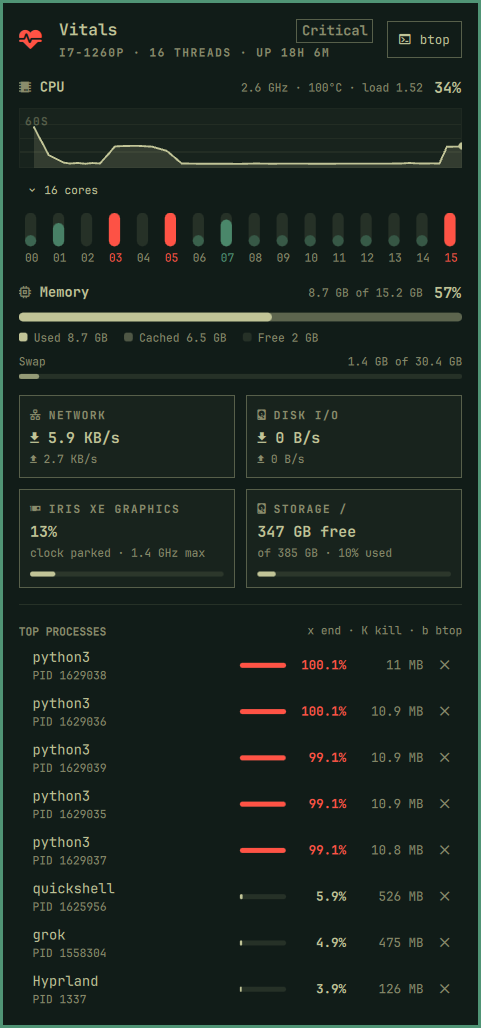
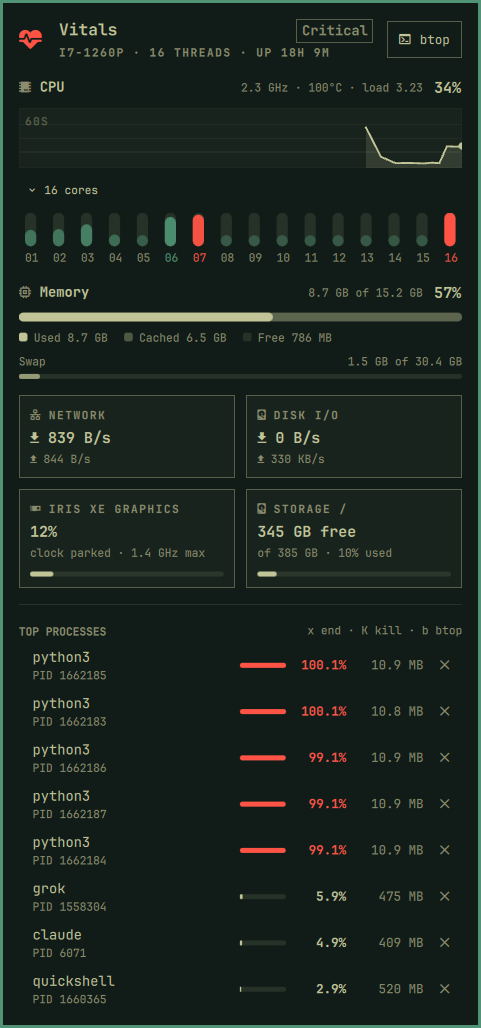
Number the per-core meters from 01
Core labels and tooltips were zero-based, which reads like an off-by-one to
anyone who is not counting kernel CPU ids. Preview re-rendered.

Claude-Session: https://claude.ai/code/session_012jHwqN4mVqzB8CDneJm88k

diff --git a/Panel.qml b/Panel.qml
@@ -829,7 +829,7 @@ Panel {
           anchors.bottom: parent.bottom
           anchors.horizontalCenter: parent.horizontalCenter
           textFormat: Text.PlainText
-          text: coreCell.index < 10 ? "0" + coreCell.index : String(coreCell.index)
+          text: (coreCell.index + 1 < 10 ? "0" : "") + (coreCell.index + 1)
           color: coreCell.load >= root.warnPercent ? coreCell.meterColor : root.dim
           font.family: root.uiFont
           font.pixelSize: Style.font.caption
@@ -843,7 +843,7 @@ Panel {
 
         PanelToolTip {
           visible: heatMouse.containsMouse
-          text: "Core " + coreCell.index + " · " + Math.round(coreCell.load) + "%"
+          text: "Core " + (coreCell.index + 1) + " · " + Math.round(coreCell.load) + "%"
           fontFamily: root.uiFont
         }
       }
